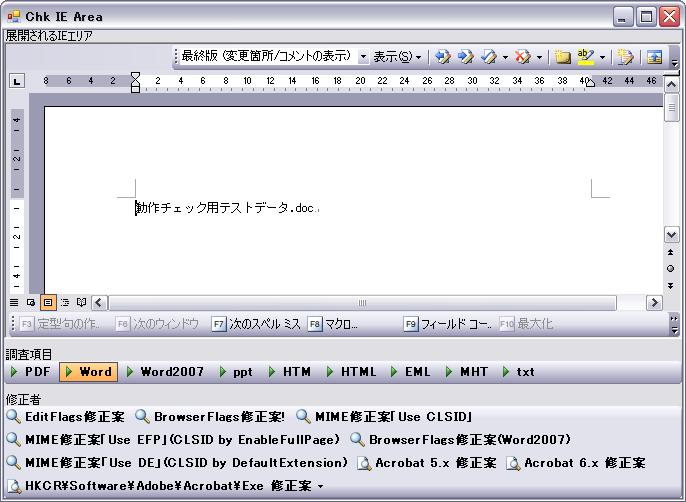
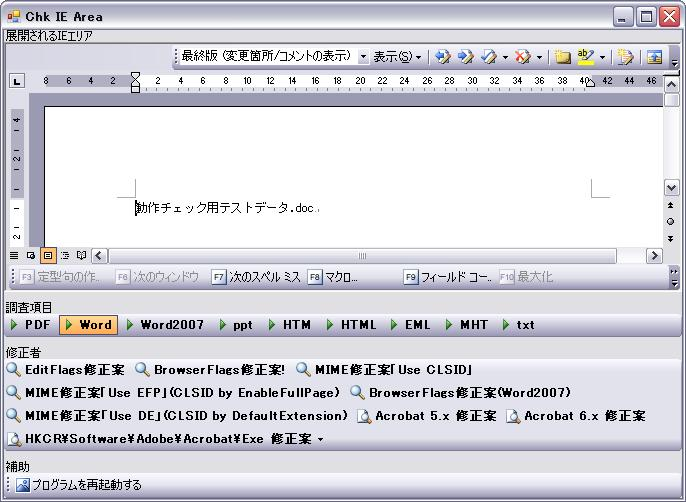
v1.0.11 ・プログラムを再起動する機能を追加した。

Changed region(s): [[0.0, 0.3586, 1.0, 0.9861], [0.949, 0.2092, 1.0, 0.239]]

diff --git a/chkiearea/CForm.Designer.cs b/chkiearea/CForm.Designer.cs
@@ -49,9 +49,13 @@
             this.bAcro6 = new System.Windows.Forms.ToolStripButton();
             this.bAcroExe = new System.Windows.Forms.ToolStripDropDownButton();
             this.l2 = new System.Windows.Forms.Label();
+            this.l3 = new System.Windows.Forms.Label();
+            this.toolStrip3 = new System.Windows.Forms.ToolStrip();
+            this.bRestart = new System.Windows.Forms.ToolStripButton();
             this.panel1.SuspendLayout();
             this.toolStrip1.SuspendLayout();
             this.toolStrip2.SuspendLayout();
+            this.toolStrip3.SuspendLayout();
             this.SuspendLayout();
             // 
             // lt
@@ -70,14 +74,14 @@
             this.wb.Location = new System.Drawing.Point(0, 0);
             this.wb.MinimumSize = new System.Drawing.Size(20, 20);
             this.wb.Name = "wb";
-            this.wb.Size = new System.Drawing.Size(674, 293);
+            this.wb.Size = new System.Drawing.Size(674, 246);
             this.wb.TabIndex = 0;
             // 
             // l1
             // 
             this.l1.AutoSize = true;
             this.l1.Dock = System.Windows.Forms.DockStyle.Bottom;
-            this.l1.Location = new System.Drawing.Point(0, 309);
+            this.l1.Location = new System.Drawing.Point(0, 262);
             this.l1.Margin = new System.Windows.Forms.Padding(3);
             this.l1.Name = "l1";
             this.l1.Padding = new System.Windows.Forms.Padding(0, 10, 0, 0);
@@ -92,7 +96,7 @@
             this.panel1.Dock = System.Windows.Forms.DockStyle.Fill;
             this.panel1.Location = new System.Drawing.Point(0, 12);
             this.panel1.Name = "panel1";
-            this.panel1.Size = new System.Drawing.Size(678, 297);
+            this.panel1.Size = new System.Drawing.Size(678, 250);
             this.panel1.TabIndex = 1;
             this.panel1.TabStop = true;
             // 
@@ -111,7 +115,7 @@
             this.bMHT,
             this.bTXT});
             this.toolStrip1.LayoutStyle = System.Windows.Forms.ToolStripLayoutStyle.Flow;
-            this.toolStrip1.Location = new System.Drawing.Point(0, 331);
+            this.toolStrip1.Location = new System.Drawing.Point(0, 284);
             this.toolStrip1.Name = "toolStrip1";
             this.toolStrip1.Size = new System.Drawing.Size(678, 23);
             this.toolStrip1.TabIndex = 3;
@@ -239,7 +243,7 @@
             this.bAcro6,
             this.bAcroExe});
             this.toolStrip2.LayoutStyle = System.Windows.Forms.ToolStripLayoutStyle.Flow;
-            this.toolStrip2.Location = new System.Drawing.Point(0, 376);
+            this.toolStrip2.Location = new System.Drawing.Point(0, 329);
             this.toolStrip2.Name = "toolStrip2";
             this.toolStrip2.Size = new System.Drawing.Size(678, 92);
             this.toolStrip2.TabIndex = 5;
@@ -343,13 +347,45 @@
             // 
             this.l2.AutoSize = true;
             this.l2.Dock = System.Windows.Forms.DockStyle.Bottom;
-            this.l2.Location = new System.Drawing.Point(0, 354);
+            this.l2.Location = new System.Drawing.Point(0, 307);
             this.l2.Margin = new System.Windows.Forms.Padding(3);
             this.l2.Name = "l2";
             this.l2.Padding = new System.Windows.Forms.Padding(0, 10, 0, 0);
             this.l2.Size = new System.Drawing.Size(41, 22);
             this.l2.TabIndex = 4;
             this.l2.Text = "修正者";
+            // 
+            // l3
+            // 
+            this.l3.AutoSize = true;
+            this.l3.Dock = System.Windows.Forms.DockStyle.Bottom;
+            this.l3.Location = new System.Drawing.Point(0, 421);
+            this.l3.Margin = new System.Windows.Forms.Padding(3);
+            this.l3.Name = "l3";
+            this.l3.Padding = new System.Windows.Forms.Padding(0, 10, 0, 0);
+            this.l3.Size = new System.Drawing.Size(29, 22);
+            this.l3.TabIndex = 6;
+            this.l3.Text = "補助";
+            // 
+            // toolStrip3
+            // 
+            this.toolStrip3.Dock = System.Windows.Forms.DockStyle.Bottom;
+            this.toolStrip3.Items.AddRange(new System.Windows.Forms.ToolStripItem[] {
+            this.bRestart});
+            this.toolStrip3.Location = new System.Drawing.Point(0, 443);
+            this.toolStrip3.Name = "toolStrip3";
+            this.toolStrip3.Size = new System.Drawing.Size(678, 25);
+            this.toolStrip3.TabIndex = 7;
+            this.toolStrip3.Text = "toolStrip3";
+            // 
+            // bRestart
+            // 
+            this.bRestart.Image = ((System.Drawing.Image)(resources.GetObject("bRestart.Image")));
+            this.bRestart.ImageTransparentColor = System.Drawing.Color.Magenta;
+            this.bRestart.Name = "bRestart";
+            this.bRestart.Size = new System.Drawing.Size(134, 22);
+            this.bRestart.Text = "プログラムを再起動する";
+            this.bRestart.Click += new System.EventHandler(this.bRestart_Click);
             // 
             // CForm
             // 
@@ -361,6 +397,8 @@
             this.Controls.Add(this.toolStrip1);
             this.Controls.Add(this.l2);
             this.Controls.Add(this.toolStrip2);
+            this.Controls.Add(this.l3);
+            this.Controls.Add(this.toolStrip3);
             this.Controls.Add(this.lt);
             this.Name = "CForm";
             this.StartPosition = System.Windows.Forms.FormStartPosition.CenterScreen;
@@ -372,6 +410,8 @@
             this.toolStrip1.PerformLayout();
             this.toolStrip2.ResumeLayout(false);
             this.toolStrip2.PerformLayout();
+            this.toolStrip3.ResumeLayout(false);
+            this.toolStrip3.PerformLayout();
             this.ResumeLayout(false);
             this.PerformLayout();
 
@@ -404,6 +444,9 @@
         private System.Windows.Forms.ToolStripButton bAcro5;
         private System.Windows.Forms.ToolStripButton bAcro6;
         private System.Windows.Forms.ToolStripDropDownButton bAcroExe;
+        private System.Windows.Forms.Label l3;
+        private System.Windows.Forms.ToolStrip toolStrip3;
+        private System.Windows.Forms.ToolStripButton bRestart;
     }
 }
 

diff --git a/chkiearea/CForm.cs b/chkiearea/CForm.cs
@@ -595,5 +595,9 @@ namespace ChkIEArea {
                 MessageBox.Show(this, "設定しました。", Application.ProductName, MessageBoxButtons.OK, MessageBoxIcon.Information);
             }
         }
+
+        private void bRestart_Click(object sender, EventArgs e) {
+            Application.Restart();
+        }
     }
 }

diff --git a/chkiearea/Properties/AssemblyInfo.cs b/chkiearea/Properties/AssemblyInfo.cs
@@ -30,4 +30,4 @@ using System.Runtime.InteropServices;
 //      Revision
 //
 [assembly: AssemblyVersion("1.0.0.0")]
-[assembly: AssemblyFileVersion("1.0.10.0")] // HERE
+[assembly: AssemblyFileVersion("1.0.11.0")] // HERE
